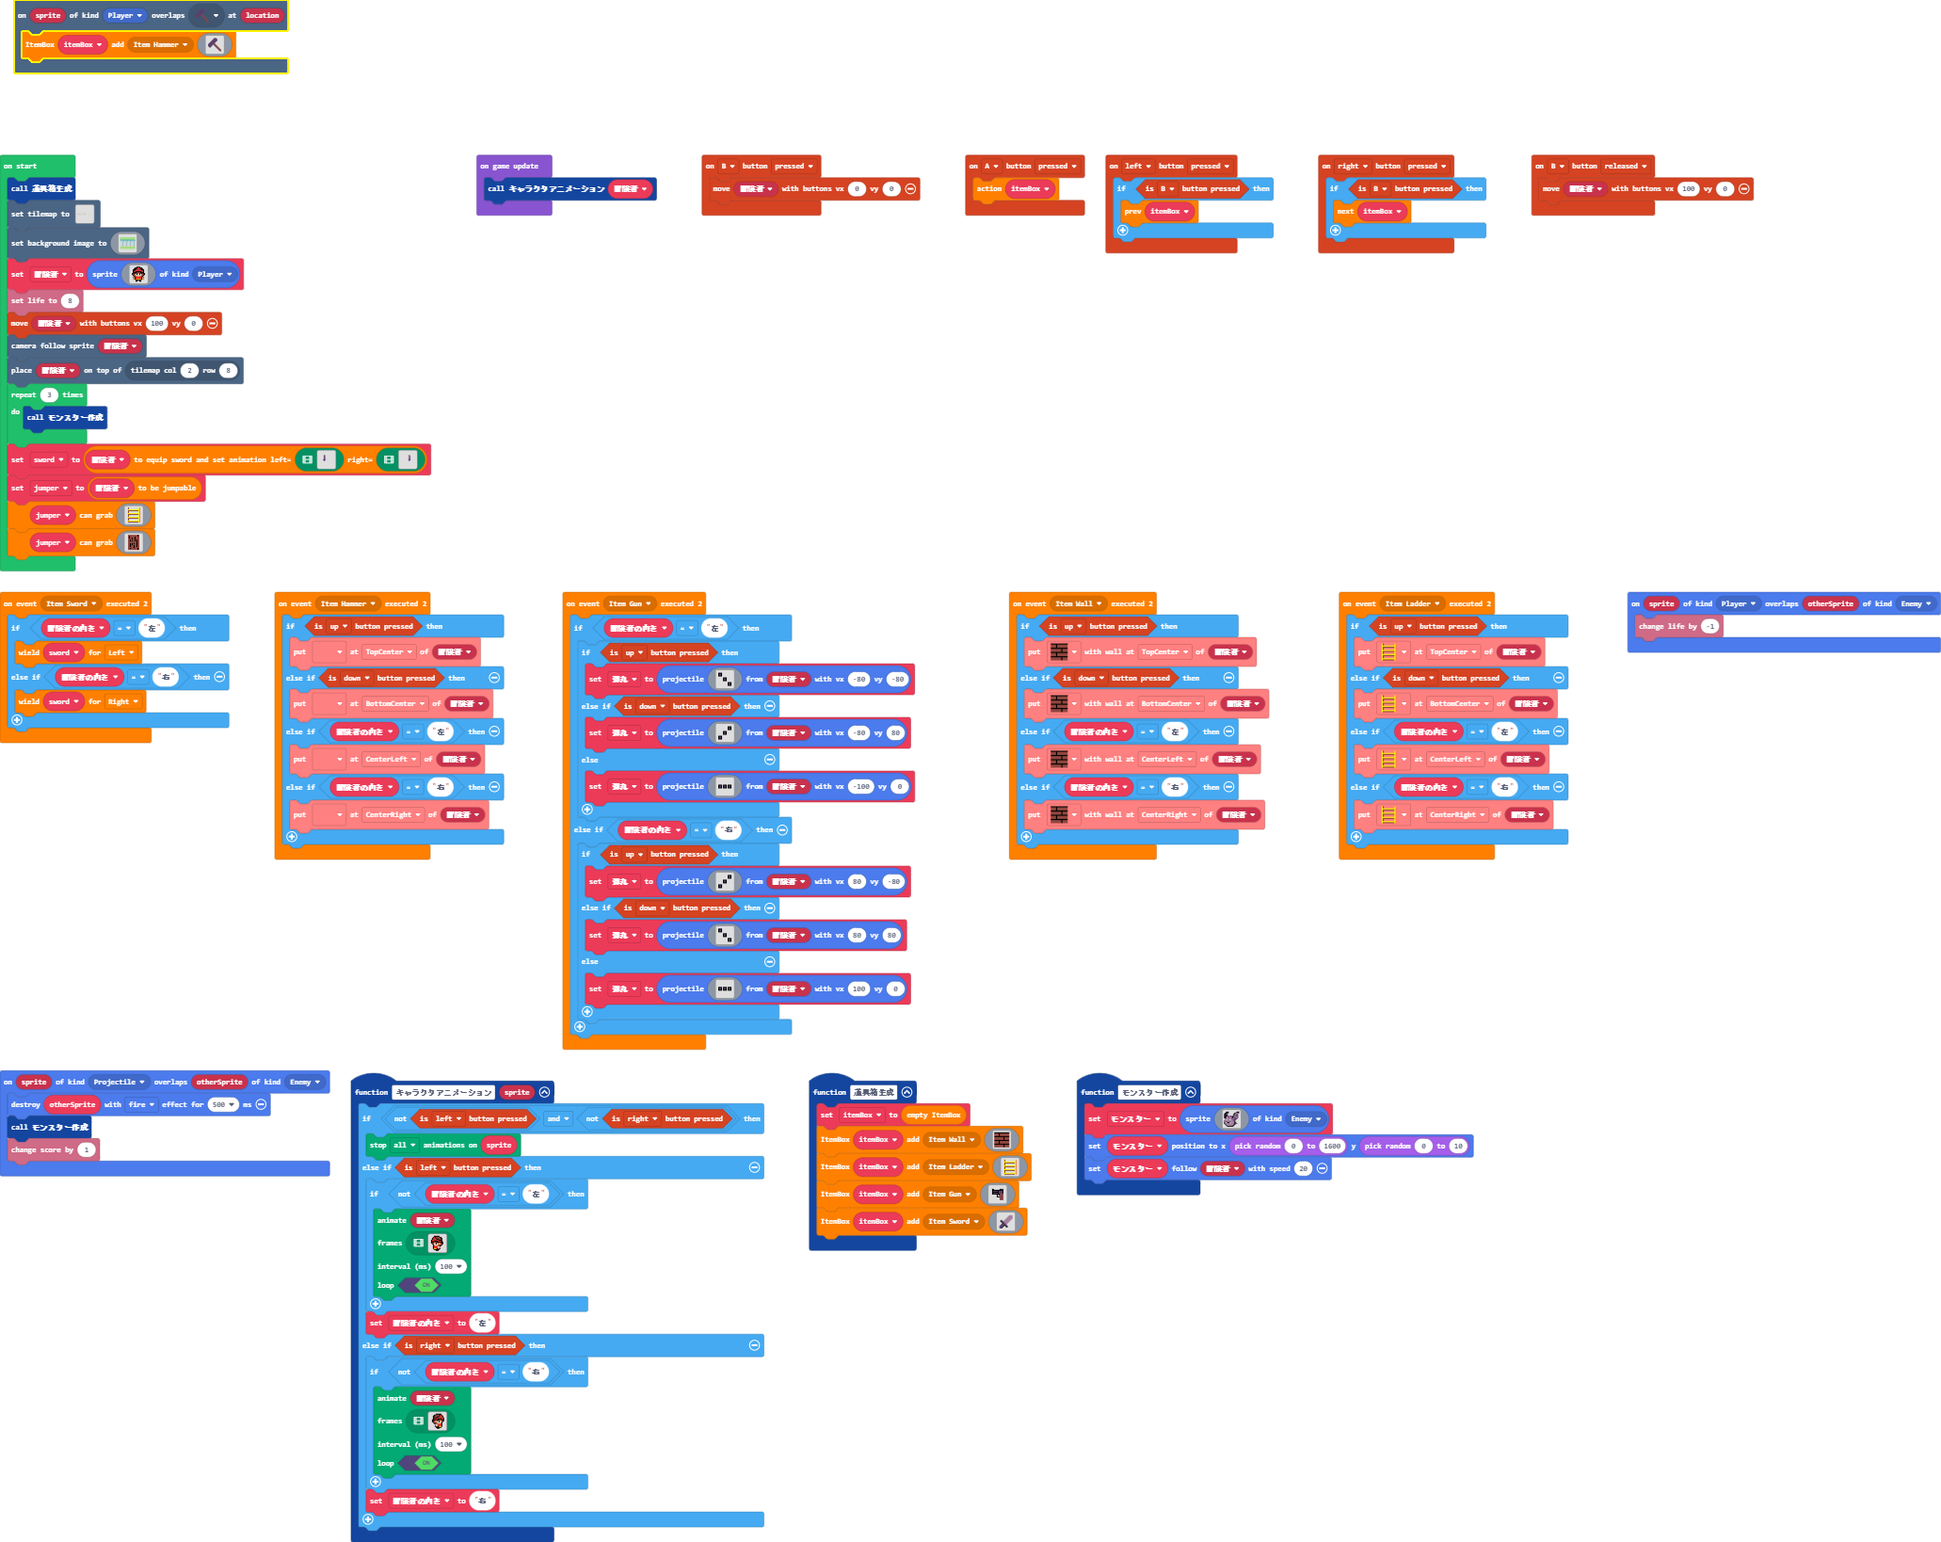
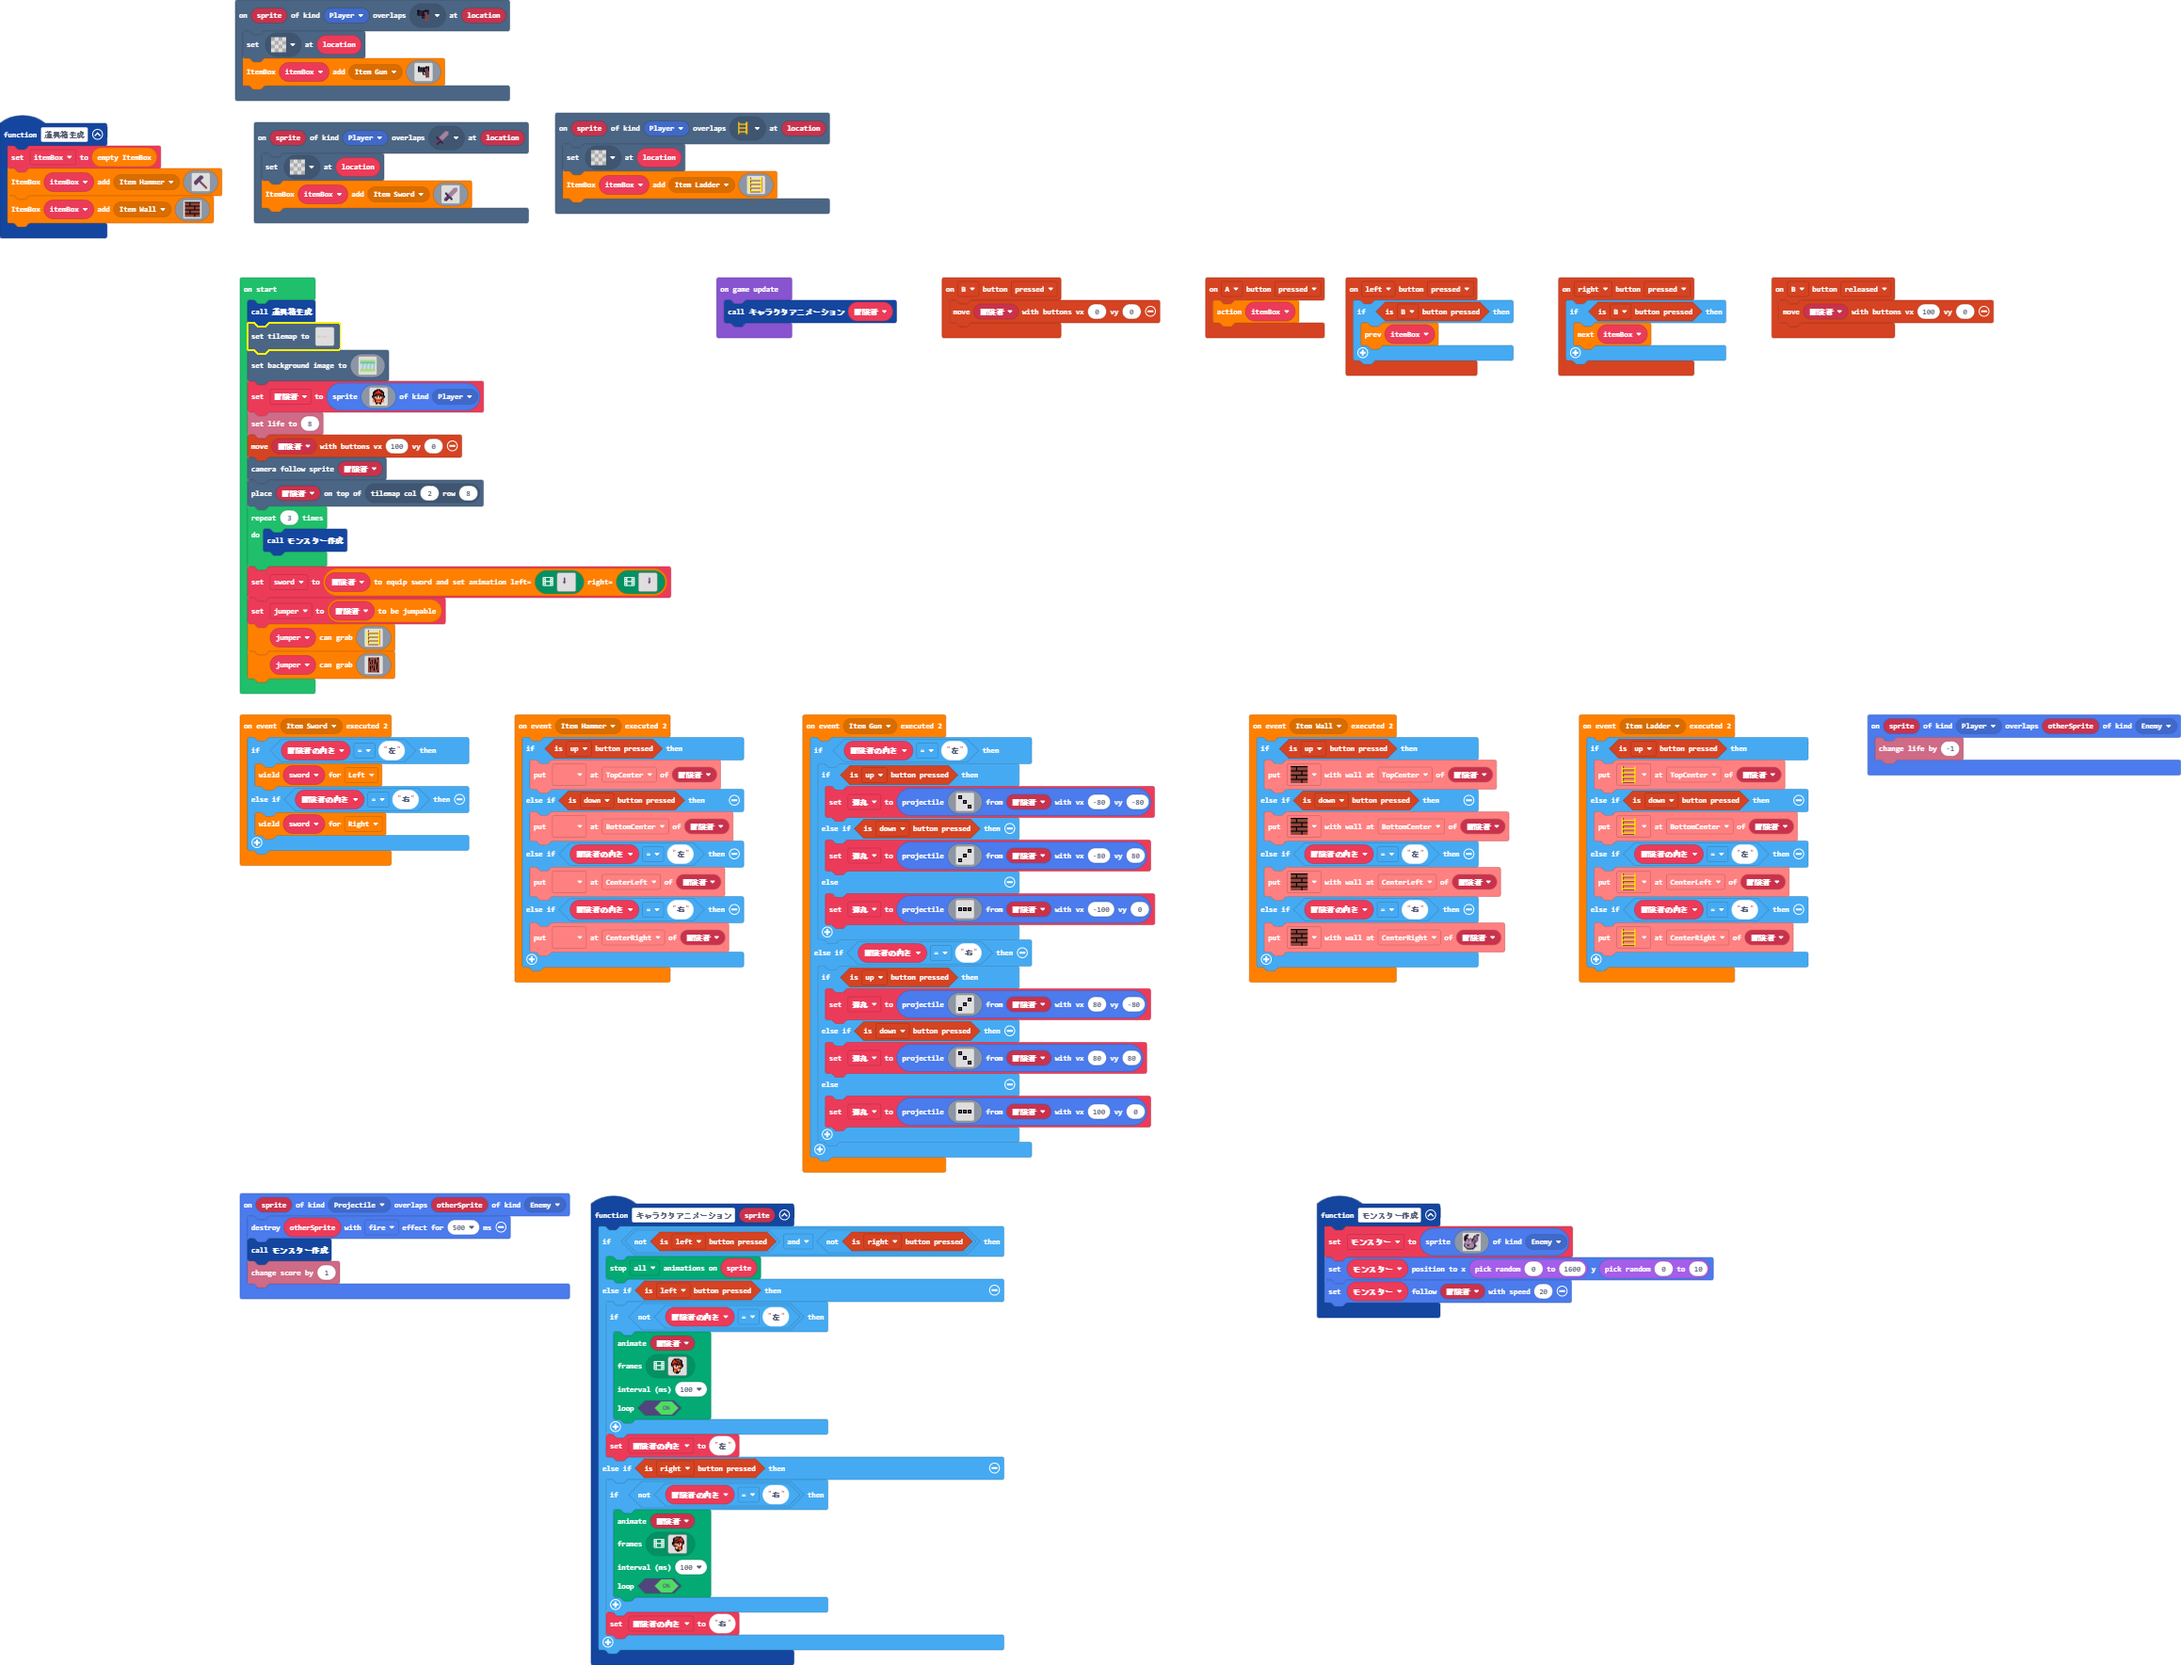
Update pxt.json, main.blocks, main.ts, tilemap.g.jres, tilemap.g.ts, images.g.jres, images.g.ts

diff --git a/tilemap.g.ts b/tilemap.g.ts
@@ -12,6 +12,10 @@ namespace myTiles {
     export const tile4 = image.ofBuffer(hex``);
     //% fixedInstance jres blockIdentity=images._tile
     export const tile5 = image.ofBuffer(hex``);
+    //% fixedInstance jres blockIdentity=images._tile
+    export const tile6 = image.ofBuffer(hex``);
+    //% fixedInstance jres blockIdentity=images._tile
+    export const tile7 = image.ofBuffer(hex``);
 
     helpers._registerFactory("tilemap", function(name: string) {
         switch(helpers.stringTrim(name)) {
@@ -225,24 +229,24 @@ namespace myTiles {
 . . . . . . . . . . . . . . . . 
 `, [myTiles.transparency16], TileScale.Sixteen);
             case "level1":
[2 lines of base64/hex data omitted]
 ....................................................................................................
 ....................................................................................................
 ....................................................................................................
 ....................................................................................................
 ....................................................................................................
-................................22..................................................................
-...............................222...........2222.222...............................................
-..............................2222..................................................................
-.............................22222..................................................................
-........22...........22.....222222..................................................................
+................................22...................................2..............................
+...............................222...........2222.222..............2................................
+..............................2222...............................2..................................
+.............................22222.............................2....................................
+........22...........22.....222222...........................2......................................
 .......222..........222....222...............2.222222...............................................
 ......2222.........2222...2222......................................................................
 .....22222........22222..22222......................................................................
 2222222222222222222222222222222222222222222222222222222222222222222222222222222222222222222222222222
 2222222222222222222222222222222222222222222222222222222222222222222222222222222222222222222222222222
 2222222222222222222222222222222222222222222222222222222222222222222222222222222222222222222222222222
-`, [myTiles.transparency16,sprites.castle.tilePath5,sprites.castle.tilePath2,sprites.castle.tilePath1,sprites.castle.tilePath3,sprites.castle.tilePath6,sprites.castle.tilePath8,sprites.castle.tilePath9,myTiles.tile2,myTiles.tile1,myTiles.tile3,sprites.builtin.forestTiles0,myTiles.tile5], TileScale.Sixteen);
+`, [myTiles.transparency16,sprites.castle.tilePath5,sprites.castle.tilePath2,sprites.castle.tilePath1,sprites.castle.tilePath3,sprites.castle.tilePath6,sprites.castle.tilePath8,sprites.castle.tilePath9,myTiles.tile2,myTiles.tile1,myTiles.tile3,sprites.builtin.forestTiles0,myTiles.tile4,myTiles.tile6,myTiles.tile7], TileScale.Sixteen);
         }
         return null;
     })
@@ -260,6 +264,10 @@ namespace myTiles {
             case "tile4":return tile4;
             case "hummer":
             case "tile5":return tile5;
+            case "hand_gun":
+            case "tile6":return tile6;
+            case "ladder":
+            case "tile7":return tile7;
         }
         return null;
     })

diff --git a/main.ts b/main.ts
@@ -36,9 +36,6 @@ controller.B.onEvent(ControllerButtonEvent.Pressed, function () {
 controller.A.onEvent(ControllerButtonEvent.Pressed, function () {
     itemBox.action()
 })
-scene.onOverlapTile(SpriteKind.Player, assets.tile`hummer`, function (sprite, location) {
-    itemBox.add(ItemKind.Hammer, assets.tile`hummer`)
-})
 controller.left.onEvent(ControllerButtonEvent.Pressed, function () {
     if (controller.B.isPressed()) {
         itemBox.prev()
@@ -46,10 +43,8 @@ controller.left.onEvent(ControllerButtonEvent.Pressed, function () {
 })
 function 道具箱生成 () {
     itemBox = itembox.util.createEmptyItemBox()
+    itemBox.add(ItemKind.Hammer, assets.tile`hummer`)
     itemBox.add(ItemKind.Wall, assets.tile`壁タイル`)
-    itemBox.add(ItemKind.Ladder, assets.tile`ハシゴタイル`)
-    itemBox.add(ItemKind.Gun, assets.image`ハンドガン`)
-    itemBox.add(ItemKind.Sword, assets.tile`short_sword`)
 }
 itembox.util.onEvent(ItemKind.Sword, function () {
     if (冒険者の向き == "左") {
@@ -57,6 +52,10 @@ itembox.util.onEvent(ItemKind.Sword, function () {
     } else if (冒険者の向き == "右") {
         sword.wield(weapons.sword.Direction.Right)
     }
+})
+scene.onOverlapTile(SpriteKind.Player, assets.tile`hand_gun`, function (sprite, location) {
+    tiles.setTileAt(location, assets.tile`transparency16`)
+    itemBox.add(ItemKind.Gun, assets.tile`hand_gun`)
 })
 controller.right.onEvent(ControllerButtonEvent.Pressed, function () {
     if (controller.B.isPressed()) {
@@ -93,6 +92,10 @@ itembox.util.onEvent(ItemKind.Gun, function () {
         }
     }
 })
+scene.onOverlapTile(SpriteKind.Player, assets.tile`ladder`, function (sprite, location) {
+    tiles.setTileAt(location, assets.tile`transparency16`)
+    itemBox.add(ItemKind.Ladder, assets.tile`ハシゴタイル`)
+})
 controller.B.onEvent(ControllerButtonEvent.Released, function () {
     controller.moveSprite(冒険者, 100, 0)
 })
@@ -106,6 +109,10 @@ itembox.util.onEvent(ItemKind.Wall, function () {
     } else if (冒険者の向き == "右") {
         creator.putTileWithWall(冒険者, creator.Direction.CenterRight, myTiles.tile1)
     }
+})
+scene.onOverlapTile(SpriteKind.Player, assets.tile`short_sword`, function (sprite, location) {
+    tiles.setTileAt(location, assets.tile`transparency16`)
+    itemBox.add(ItemKind.Sword, assets.tile`short_sword`)
 })
 itembox.util.onEvent(ItemKind.Ladder, function () {
     if (controller.up.isPressed()) {

diff --git a/images.g.ts b/images.g.ts
@@ -3,25 +3,6 @@ namespace myImages {
 
     helpers._registerFactory("image", function(name: string) {
         switch(helpers.stringTrim(name)) {
-            case "image1":
-            case "ハンマー":return img`
-. . . . . . . . . . . . . . . . 
-. . . . . . . c c c . . . . . . 
-. . . . . . c c c c c . . . . . 
-. . . . . c c c c c c . . . . . 
-. . . . c c c c c c . . . . . . 
-. . . c c c c c c . . . . . . . 
-. . c c c c c c . . . . . . . . 
-. c c c c c c e e . . . . . . . 
-. c c c c c . c e e . . . . . . 
-. c c c c . . . c e e . . . . . 
-. . c c . . . . . c e e . . . . 
-. . . . . . . . . . c e e . . . 
-. . . . . . . . . . . c e e . . 
-. . . . . . . . . . . . c e e . 
-. . . . . . . . . . . . . e e . 
-. . . . . . . . . . . . . . . . 
-`;
             case "image2":
             case "ハンドガン":return img`
 . . . . . . . . . . . . . . . . 
@@ -77,25 +58,6 @@ namespace myImages {
 . . . . . . f c c f . . . . . . 
 . . . . . . f c c f . . . . . . 
 . . . . . . f f f f . . . . . . 
-. . . . . . . . . . . . . . . . 
-`;
-            case "image4":
-            case "myImage":return img`
-. . . . . . . . . . . . . . . . 
-. . . . . . . . . . . b b b b . 
-. . . . . . . . . . b b b b b . 
-. . . . . . . . . b b b b b b . 
-. . . . . . . . b b b b b b b . 
-. . . . . . . b b b b b b b . . 
-. . c c . . b b b b b b b . . . 
-. . f c c b b b b b b b . . . . 
-. . . f c c b b b b b . . . . . 
-. . . . f c c b b b . . . . . . 
-. . . c c c c c b . . . . . . . 
-. . c c c c f c c . . . . . . . 
-. c c c c f . f c c . . . . . . 
-. c c c f . . . f c . . . . . . 
-. c c f . . . . . . . . . . . . 
 . . . . . . . . . . . . . . . . 
 `;
             case "image7":
